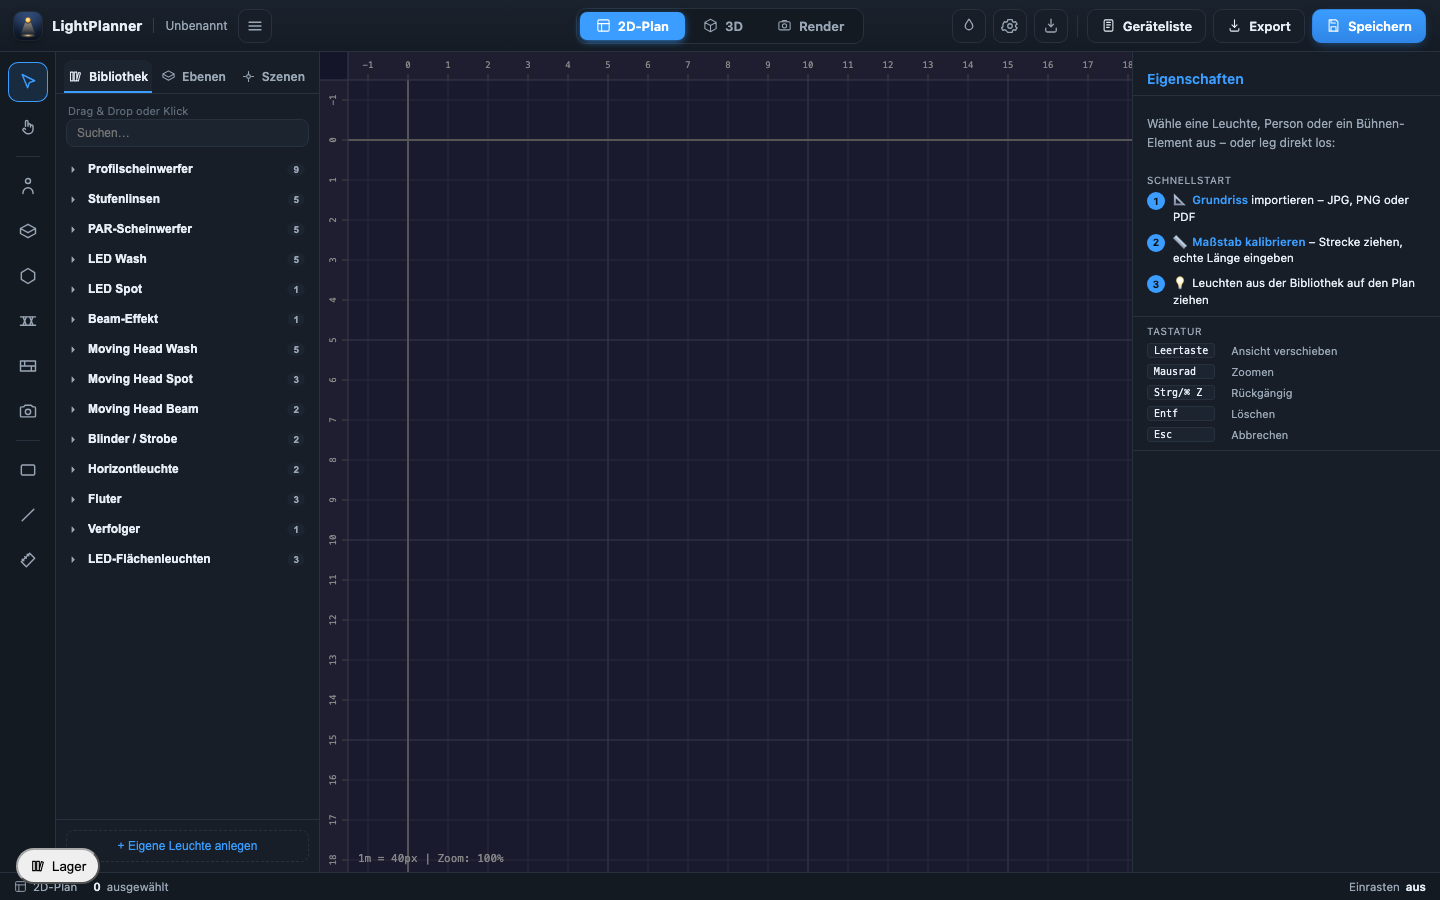
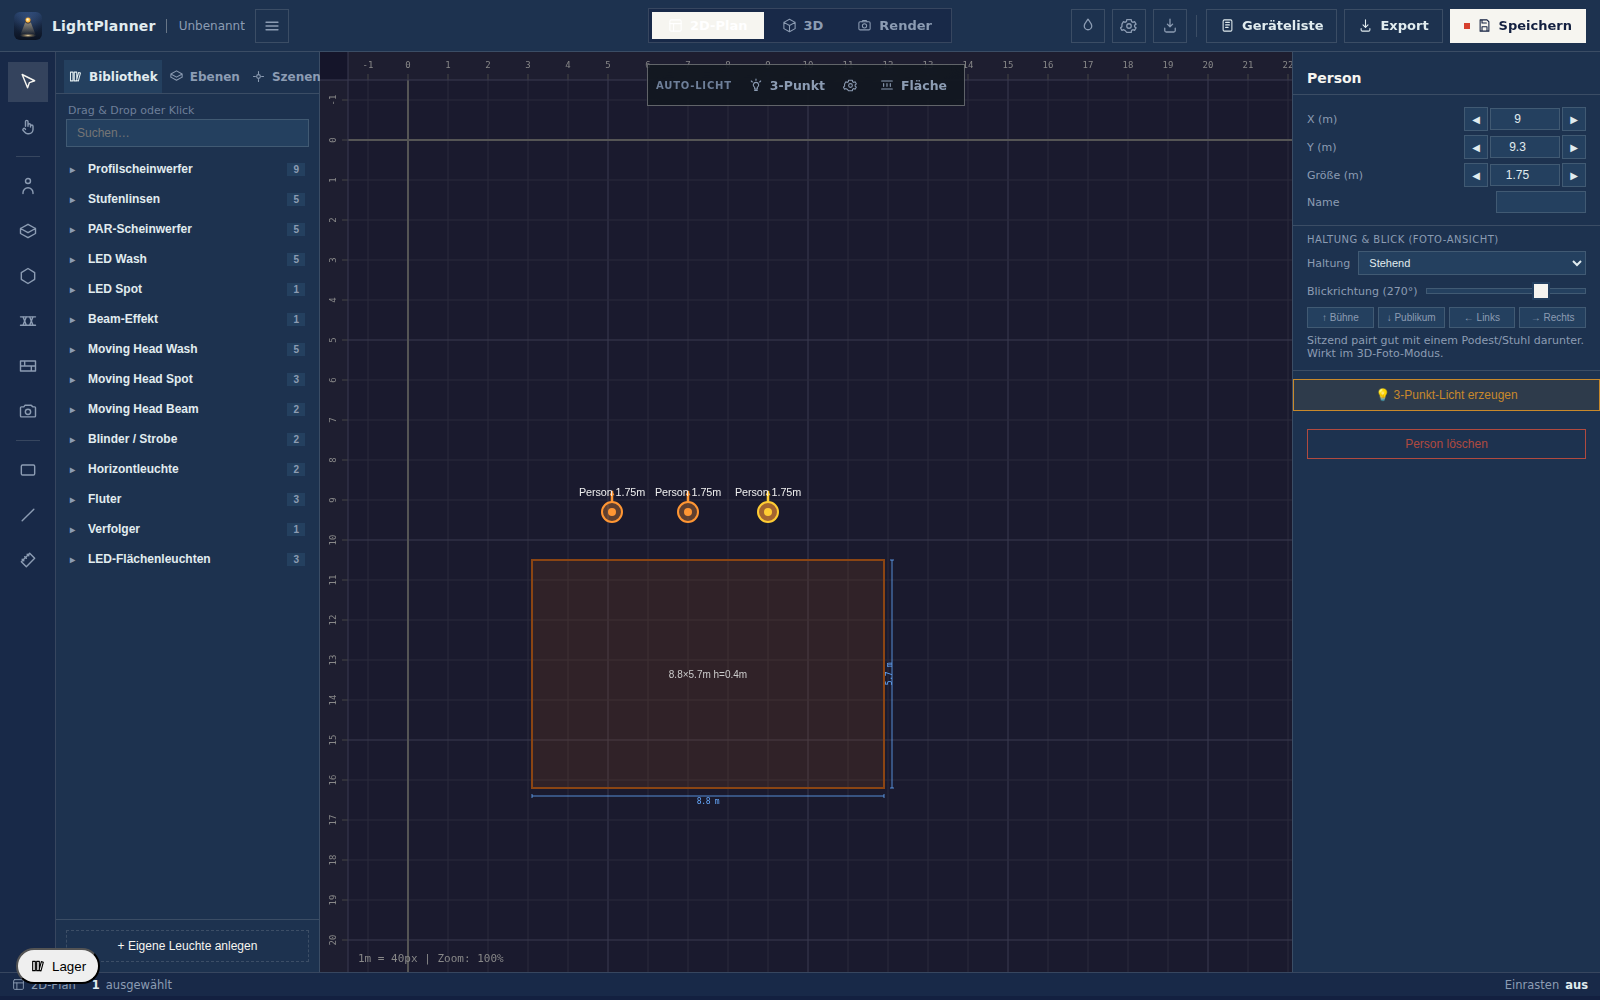
docs: Projektseite im README, und ein Schirmbild vom aktuellen Stand (#109)
Nutzer-Meldung 2026-09-09: „Alle Pages sind jetzt ueber die actions
erstellbar. Update auch die readmes erneut und erstelle neue Screenshots".

DIE SEITE stand nicht im README. Sie steht jetzt da, zusammen mit dem
Mechanismus (der Lauf FRAGT die Pages-API, bevor er konfiguriert) und mit dem
GEMESSENEN Stand: `deploy`-Job des letzten Pages-Laufs am 2026-09-09
erfolgreich — veroeffentlicht. Das Datum steht dabei, weil sich der Stand
aendern kann und ein README, das eine 404 verlinkt, schlimmer ist als eines
ohne Link.

DAS SCHIRMBILD kommt aus dem GEBAUTEN Stand, aufgenommen in einem echten
Browser (`dist/` statisch ausgeliefert, Chromium 1600x1000): 2D-Plan mit
Podest, drei Personen, Bibliothek links und Eigenschaften-Leiste rechts —
also das, was das alt-Attribut daneben behauptet. Das vorige Bild war aelter
als die Oberflaeche, die es zeigte.

Der Plan wird dafuer im Bild BEFUELLT und nicht leer abgelichtet: ein leerer
Plan ist zwar der ehrliche erste Eindruck, taugt aber nicht als Bild dessen,
was das Werkzeug tut.

diff --git a/README.md b/README.md
@@ -19,6 +19,21 @@
 
 ---
 
+## The web page
+
+Every push to the default branch builds this repo's page from
+`.github/workflows/pages.yml` and publishes it:
+
+**https://larszu.github.io/light-planner/**
+
+The workflow **asks the Pages API before it configures anything.** With no
+Pages site it still builds — that is a real check — and skips only the
+publishing step, with a warning and the one missing step in the run summary.
+A run that must stay red for a click nobody made teaches people to ignore red.
+
+Measured 2026-09-09: **published** — the `deploy` job ran and succeeded.
+
+---
 ## ✨ What it is
 
 **LightPlanner** is a small desktop app for quickly sketching out a lighting setup.
